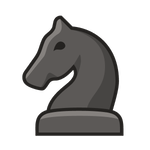
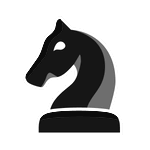
Update theem

diff --git a/stats.html b/stats.html
@@ -116,9 +116,10 @@
                         <div style="font-weight: bold; font-size: 14px;" data-i18n="settings.piece_theme_label">Piece Theme</div>
                         <div class="stats-desc" data-i18n="settings.piece_theme_desc">Select chess piece style: Chess.com (Neo Vectors) or Classic Unicode glyphs.</div>
                     </div>
-                    <div style="display: table-cell; vertical-align: middle; text-align: right; width: 160px;">
-                        <div class="btn-group" id="setting-theme-group" style="margin: 0; width: 160px;">
+                    <div style="display: table-cell; vertical-align: middle; text-align: right; width: 220px;">
+                        <div class="btn-group" id="setting-theme-group" style="margin: 0; width: 220px;">
                             <div class="btn-group-item active" id="btn-theme-chesscom" onclick="setPieceThemeSetting('ejgfv')" data-i18n="settings.theme_chesscom">Chess.com</div>
+                            <div class="btn-group-item" id="btn-theme-lichess" onclick="setPieceThemeSetting('cburnett')" data-i18n="settings.theme_lichess">Lichess</div>
                             <div class="btn-group-item" id="btn-theme-unicode" onclick="setPieceThemeSetting('unicode')" data-i18n="settings.theme_unicode">Unicode</div>
                         </div>
                     </div>
@@ -204,8 +205,8 @@
     </div>
 
     <!-- SCRIPTS -->
-    <script src="js/chess-storage.js?v=32"></script>
-    <script src="js/chess-i18n.js?v=55"></script>
+    <script src="js/chess-storage.js?v=33"></script>
+    <script src="js/chess-i18n.js?v=56"></script>
     <script src="js/chess-backend.js?v=12"></script>
     <script>
         function displayStats(row) {
@@ -310,15 +311,12 @@
 
             var pieceTheme = typeof ChessStorage !== 'undefined' ? ChessStorage.getPieceTheme() : 'ejgfv';
             var btnChessCom = document.getElementById('btn-theme-chesscom');
+            var btnLichess = document.getElementById('btn-theme-lichess');
             var btnUnicode = document.getElementById('btn-theme-unicode');
             if (btnChessCom && btnUnicode) {
-                if (pieceTheme === 'unicode') {
-                    btnUnicode.className = 'btn-group-item active';
-                    btnChessCom.className = 'btn-group-item';
-                } else {
-                    btnChessCom.className = 'btn-group-item active';
-                    btnUnicode.className = 'btn-group-item';
-                }
+                if (btnChessCom) btnChessCom.className = pieceTheme === 'ejgfv' ? 'btn-group-item active' : 'btn-group-item';
+                if (btnLichess) btnLichess.className = pieceTheme === 'cburnett' ? 'btn-group-item active' : 'btn-group-item';
+                if (btnUnicode) btnUnicode.className = pieceTheme === 'unicode' ? 'btn-group-item active' : 'btn-group-item';
             }
 
             var showHints = typeof ChessStorage !== 'undefined' ? ChessStorage.getShowHints() : true;

diff --git a/js/chess-i18n.js b/js/chess-i18n.js
@@ -208,9 +208,10 @@
             'settings.on': 'BẬT',
             'settings.off': 'TẮT',
             'settings.piece_theme_label': 'Giao diện Quân cờ',
-            'settings.piece_theme_desc': 'Chọn kiểu hiển thị quân cờ: Chess.com hoặc Ký tự Unicode.',
+            'settings.piece_theme_desc': 'Chọn kiểu hiển thị quân cờ: Chess.com, Lichess (Vector), hoặc Ký tự Unicode.',
             'settings.theme_unicode': 'Unicode',
             'settings.theme_chesscom': 'Chess.com',
+            'settings.theme_lichess': 'Lichess',
             'settings.show_hints_label': 'Gợi ý nước đi (Chơi với Bot)',
             'settings.show_hints_desc': 'Hiển thị các chấm gợi ý nước đi hợp lệ khi chạm vào quân cờ.',
             'settings.move_review_label': 'Đánh giá nước đi (Chơi với Bot v2)',
@@ -572,9 +573,10 @@
             'settings.on': 'ON',
             'settings.off': 'OFF',
             'settings.piece_theme_label': 'Piece Theme',
-            'settings.piece_theme_desc': 'Select chess piece style: Chess.com or Classic Unicode.',
+            'settings.piece_theme_desc': 'Select chess piece style: Chess.com, Lichess (Vector), or Classic Unicode.',
             'settings.theme_unicode': 'Unicode',
             'settings.theme_chesscom': 'Chess.com',
+            'settings.theme_lichess': 'Lichess',
             'settings.show_hints_label': 'Show Move Hints (Play Bot)',
             'settings.show_hints_desc': 'Show legal move indicator dots on board when selecting a piece.',
             'settings.move_review_label': 'Move Review (Play Bot v2)',

diff --git a/play-bot-v2.html b/play-bot-v2.html
@@ -229,11 +229,11 @@
     </div>
 
     <!-- SCRIPTS -->
-    <script src="js/chess-engine.js?v=13"></script>
+    <script src="js/chess-engine.js?v=15"></script>
     <script src="js/tomitank-source.js?v=1"></script>
     <script src="js/chess-ai-v2.js?v=12"></script>
-    <script src="js/chess-storage.js?v=32"></script>
-    <script src="js/chess-i18n.js?v=55"></script>
+    <script src="js/chess-storage.js?v=33"></script>
+    <script src="js/chess-i18n.js?v=56"></script>
     <script src="js/chess-board.js?v=21"></script>
     <script src="js/chess-backend.js?v=12"></script>
 
@@ -412,6 +412,7 @@
         }
 
         function updateEloBadge() {
+            if (typeof ChessStorage === 'undefined' || !ChessStorage.getBotElo) return;
             var elo = ChessStorage.getBotElo();
             var badge = document.getElementById('bot-elo-badge');
             if (badge && typeof ChessI18n !== 'undefined') {

diff --git a/js/chess-storage.js b/js/chess-storage.js
@@ -382,14 +382,17 @@
             return this.set(STORAGE_KEYS.ALLOW_UNDO, !!allow);
         },
 
-        // --- Piece Theme Setting (ejgfv/Chess.com vs Unicode) ---
+        // --- Piece Theme Setting (ejgfv/Chess.com, cburnett/Lichess, Unicode) ---
         getPieceTheme: function() {
             var theme = this.get(STORAGE_KEYS.PIECE_THEME, 'ejgfv');
-            return theme === 'unicode' ? 'unicode' : 'ejgfv';
+            if (theme === 'unicode' || theme === 'cburnett' || theme === 'ejgfv') {
+                return theme;
+            }
+            return 'ejgfv';
         },
 
         setPieceTheme: function(theme) {
-            var validTheme = theme === 'unicode' ? 'unicode' : 'ejgfv';
+            var validTheme = (theme === 'unicode' || theme === 'cburnett') ? theme : 'ejgfv';
             return this.set(STORAGE_KEYS.PIECE_THEME, validTheme);
         },
 

diff --git a/play-bot.html b/play-bot.html
@@ -163,10 +163,10 @@
     </div>
 
     <!-- SCRIPTS -->
-    <script src="js/chess-engine.js?v=13"></script>
+    <script src="js/chess-engine.js?v=15"></script>
     <script src="js/chess-ai.js?v=8"></script>
-    <script src="js/chess-storage.js?v=32"></script>
-    <script src="js/chess-i18n.js?v=55"></script>
+    <script src="js/chess-storage.js?v=33"></script>
+    <script src="js/chess-i18n.js?v=56"></script>
     <script src="js/chess-board.js?v=21"></script>
     <script src="js/chess-backend.js?v=12"></script>
 
@@ -330,6 +330,7 @@
         }
 
         function updateEloBadge() {
+            if (typeof ChessStorage === 'undefined' || !ChessStorage.getBotElo) return;
             var elo = ChessStorage.getBotElo();
             var badge = document.getElementById('bot-elo-badge');
             if (badge && typeof ChessI18n !== 'undefined') {

diff --git a/js/chess-engine.js b/js/chess-engine.js
@@ -75,7 +75,13 @@
         if (!curTheme && typeof ChessStorage !== 'undefined' && ChessStorage.getPieceTheme) {
             curTheme = ChessStorage.getPieceTheme();
         }
-        if (curTheme !== 'unicode' && PIECE_LOWER_NAMES[piece]) {
+        if (curTheme === 'unicode') {
+            return GLYPHS[piece] || '';
+        }
+        if (curTheme === 'cburnett' && PIECE_LOWER_NAMES[piece]) {
+            return '<img src="images/pieces/cburnett/' + PIECE_LOWER_NAMES[piece] + '.svg" class="piece-img" alt="' + piece + '" draggable="false">';
+        }
+        if (PIECE_LOWER_NAMES[piece]) {
             return '<img src="images/pieces/ejgfv/' + PIECE_LOWER_NAMES[piece] + '.png" class="piece-img" alt="' + piece + '" draggable="false">';
         }
         return GLYPHS[piece] || '';

diff --git a/analysis.html b/analysis.html
@@ -608,11 +608,11 @@
     </div>
 
     <!-- SCRIPTS -->
-    <script src="js/chess-engine.js?v=13"></script>
+    <script src="js/chess-engine.js?v=15"></script>
     <script src="js/tomitank-source.js?v=1"></script>
     <script src="js/chess-ai-v2.js?v=12"></script>
-    <script src="js/chess-storage.js?v=32"></script>
-    <script src="js/chess-i18n.js?v=55"></script>
+    <script src="js/chess-storage.js?v=33"></script>
+    <script src="js/chess-i18n.js?v=56"></script>
     <script src="js/chess-board.js?v=21"></script>
     <script src="js/chess-backend.js?v=12"></script>
 

diff --git a/puzzles.html b/puzzles.html
@@ -285,9 +285,9 @@
     </div>
 
     <!-- SCRIPTS -->
-    <script src="js/chess-engine.js?v=13"></script>
-    <script src="js/chess-storage.js?v=32"></script>
-    <script src="js/chess-i18n.js?v=55"></script>
+    <script src="js/chess-engine.js?v=15"></script>
+    <script src="js/chess-storage.js?v=33"></script>
+    <script src="js/chess-i18n.js?v=56"></script>
     <script src="js/chess-backend.js?v=12"></script>
     <script src="js/chess-board.js?v=21"></script>
     <script src="data/puzzles/manifest.js?v=20260820111022"></script>

diff --git a/index.html b/index.html
@@ -179,8 +179,8 @@
     </div>
 
     <!-- SCRIPTS -->
-    <script src="js/chess-storage.js?v=32"></script>
-    <script src="js/chess-i18n.js?v=55"></script>
+    <script src="js/chess-storage.js?v=33"></script>
+    <script src="js/chess-i18n.js?v=56"></script>
     <script src="js/chess-backend.js?v=12"></script>
     <script>
         var selectedLvl = 1;

diff --git a/requirements_einkchess.md b/requirements_einkchess.md
@@ -341,9 +341,12 @@
     - Trạng thái được lưu trong `localStorage` (`einkchess_allow_undo`), mặc định là Tắt (`false`).
     - Áp dụng đồng bộ cho toàn bộ Bot v1 (`play-bot.html`) và Bot v2 (`play-bot-v2.html`): khi Tắt, nút Undo sẽ tự động ẩn và thao tác đi lại bị vô hiệu hóa; khi Bật, nút Undo hiển thị và hoạt động bình thường.
   - **Tùy chọn Cài đặt Giao diện Quân cờ (Piece Theme Setting):**
-    - Cho phép người chơi chọn kiểu hiển thị quân cờ: `Chess.com` (Bộ quân cờ chuẩn) hoặc `Unicode` (Ký tự cờ cổ điển).
+    - Cho phép người chơi chọn giữa 3 kiểu hiển thị quân cờ:
+      1. `Chess.com` (`ejgfv` - Mặc định): Bộ quân cờ PNG chuẩn phong cách Neo, đã được xử lý tăng cường tương phản cao (quân Đen thân đen tuyền viền trắng nổi; quân Trắng giữ nguyên màu thân và bóng đổ gốc, nét vẽ bên trong và viền bao ngoài nâng cấp thành đen tuyền `#000000` sắc nét) lưu trữ offline tại `images/pieces/ejgfv/`.
+      2. `Lichess` (`cburnett`): Bộ quân cờ SVG vector chuẩn cburnett tương phản cao siêu nhẹ (<1KB/file), sắc nét ở mọi độ phân giải E-ink, lưu trữ offline tại `images/pieces/cburnett/`.
+      3. `Unicode` (`unicode`): Ký tự cờ văn bản cổ điển (`♔`, `♚`, ...).
     - Trạng thái được lưu trong `localStorage` (`einkchess_piece_theme`), mặc định là `Chess.com` (`ejgfv`).
-    - Bộ quân cờ lưu trữ offline tại `images/pieces/ejgfv/` (PNG chuẩn 1:1), tự động tương thích và hiển thị đồng bộ trên bàn cờ (`ChessBoard`), danh sách quân đã ăn (`captured-white`, `captured-black`) và hộp thoại phong cấp (Promotion Dialog) ở tất cả các chế độ chơi (`play-bot-v2`, `play-bot`, `puzzles`, `analysis`).
+    - Tự động tương thích và hiển thị đồng bộ trên bàn cờ (`ChessBoard`), danh sách quân đã ăn (`captured-white`, `captured-black`) và hộp thoại phong cấp (Promotion Dialog) ở tất cả các chế độ chơi (`play-bot-v2`, `play-bot`, `puzzles`, `analysis`).
   - Truy vấn trực tiếp REST API từ Supabase, hiển thị các mốc Realtime (10m, 30m, 60m) cùng các số liệu lưu lượng.
   - Tự động fallback sang chế độ ngoại tuyến (Offline Mode) an toàn khi chưa cấu hình Supabase URL/Anon Key trong khi mục Cài đặt vẫn hoạt động bình thường offline.
 
